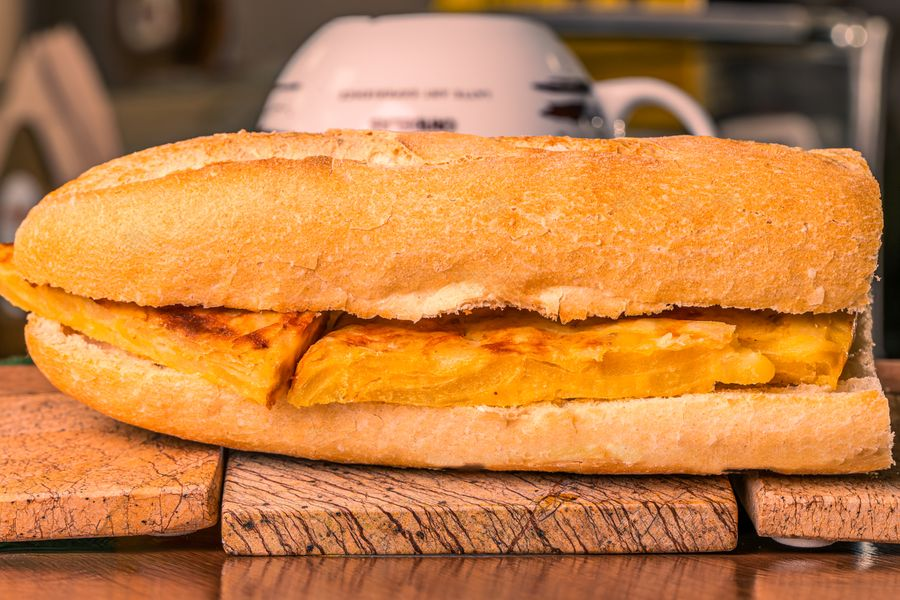
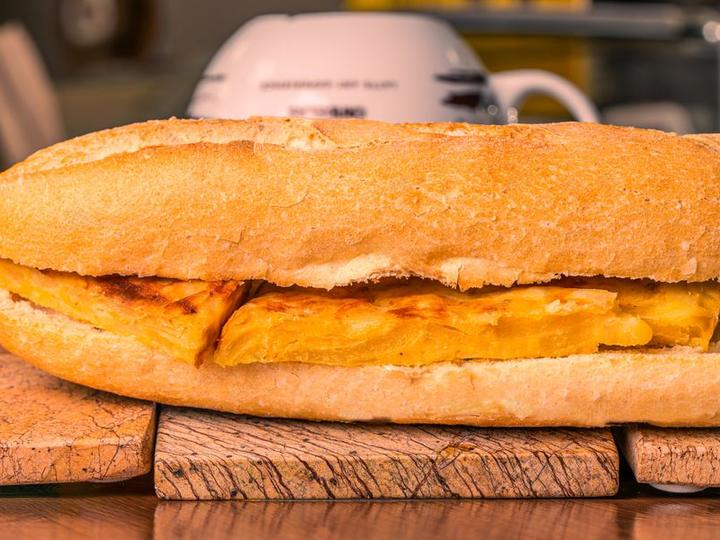
Historique : nom de l'expéditeur / du destinataire ; photos des plats allégées et mises en cache
- transactions.counterpart_name (nom · identifiant), rempli par transfer_funds et rétroactivement
- historique : « Reçu de Koffi Diabaté · DB-3796 » / « Envoyé à … »
- photos recadrées 4:3, 720×540, JPEG progressif : 2,3 Mo → 0,9 Mo ; script scripts/optimize-photos.py
- cache : 7 jours CDN/navigateur + service worker (affichage immédiat, mise à jour en arrière-plan)

Claude-Session: https://claude.ai/code/session_01M1rj67ENvoiHH1JiJK12xE

diff --git a/src/app/app/historique/page.tsx b/src/app/app/historique/page.tsx
@@ -6,7 +6,7 @@ import { supabase } from "@/lib/supabase/client";
 import { PageHeader } from "@/components/app/page-header";
 import { fcfa, signedFcfa, relativeDay, time, todayISO } from "@/lib/format";
 
-type Tx = { id: string; type: string; amount: number; balance_after: number; note: string | null; created_at: string };
+type Tx = { id: string; type: string; amount: number; balance_after: number; note: string | null; created_at: string; counterpart_name: string | null };
 
 const META: Record<string, { label: string; icon: typeof Gift; bg: string }> = {
   recharge: { label: "Recharge Mobile Money", icon: Smartphone, bg: "bg-lime-soft text-lime-deep" },
@@ -32,7 +32,7 @@ export default function HistoryPage() {
     (async () => {
       const sb = supabase();
       const { data: { user } } = await sb.auth.getUser();
-      const { data } = await sb.from("transactions").select("id, type, amount, balance_after, note, created_at")
+      const { data } = await sb.from("transactions").select("id, type, amount, balance_after, note, created_at, counterpart_name")
         .eq("user_id", user!.id).order("created_at", { ascending: false }).limit(150);
       setTxs(data ?? []);
     })();
@@ -78,8 +78,15 @@ export default function HistoryPage() {
                   <div key={t.id} className="flex items-center gap-3 px-4 py-3">
                     <span className={clsx("grid size-10 shrink-0 place-items-center rounded-xl", m.bg)}><I className="size-[18px]" /></span>
                     <div className="min-w-0 flex-1">
-                      <p className="truncate text-sm font-bold">{t.type === "purchase" && t.note ? t.note : m.label}</p>
-                      <p className="truncate text-xs text-muted">{t.type === "purchase" ? m.label : t.note ?? ""} · {time(t.created_at)}</p>
+                      <p className="truncate text-sm font-bold">
+                        {t.type === "purchase" && t.note ? t.note
+                          : t.counterpart_name && t.type === "transfer_in" ? `Reçu de ${t.counterpart_name}`
+                          : t.counterpart_name && t.type === "transfer_out" ? `Envoyé à ${t.counterpart_name}`
+                          : m.label}
+                      </p>
+                      <p className="truncate text-xs text-muted">
+                        {[t.type === "purchase" || t.counterpart_name ? m.label : null, t.type !== "purchase" ? t.note : null, time(t.created_at)].filter(Boolean).join(" · ")}
+                      </p>
                     </div>
                     <div className="text-right">
                       <p className={clsx("text-sm font-extrabold", t.amount > 0 ? "text-[#15803d]" : "text-ink")}>{signedFcfa(t.amount)}</p>

diff --git a/public/sw.js b/public/sw.js
@@ -3,7 +3,7 @@
 // - pages de l'appli : réseau d'abord, repli sur la dernière version en cache
 // - fichiers statiques Next (/_next/static) : cache d'abord (noms versionnés)
 // - API Supabase : jamais mise en cache ici (les jetons QR sont gardés par l'appli dans localStorage)
-const VERSION = "dabali-v1";
+const VERSION = "dabali-v1-img";
 const PAGES = ["/app", "/app/tickets", "/app/menu", "/app/profil"];
 
 self.addEventListener("install", (e) => {
@@ -28,6 +28,17 @@ self.addEventListener("fetch", (e) => {
         const copy = res.clone();
         caches.open(VERSION).then((c) => c.put(req, copy));
         return res;
+      })),
+    );
+    return;
+  }
+
+  // Photos des plats : affichées tout de suite depuis le téléphone, mises à jour en arrière-plan
+  if (url.pathname.startsWith("/dishes/")) {
+    e.respondWith(
+      caches.open(VERSION).then((c) => c.match(req).then((hit) => {
+        const update = fetch(req).then((res) => { if (res.ok) c.put(req, res.clone()); return res; }).catch(() => hit);
+        return hit || update;
       })),
     );
     return;

diff --git a/src/components/app/dish-image.tsx b/src/components/app/dish-image.tsx
@@ -20,7 +20,7 @@ export function DishImage({ name, src, className, rounded = "rounded-2xl" }: {
   const [failed, setFailed] = useState<string | null>(null);
   if (src && failed !== src) {
     // eslint-disable-next-line @next/next/no-img-element
-    return <img src={src} alt={name} loading="lazy" onError={() => setFailed(src)} className={clsx("bg-canvas object-cover", rounded, className)} />;
+    return <img src={src} alt={name} loading="lazy" decoding="async" onError={() => setFailed(src)} className={clsx("bg-canvas object-cover", rounded, className)} />;
   }
   const [a, b] = PALETTES[hash(name) % PALETTES.length];
   const initials = name.split(/\s+/).filter((w) => w.length > 2).slice(0, 2).map((w) => w[0]).join("").toUpperCase();

diff --git a/scripts/optimize-photos.py b/scripts/optimize-photos.py
@@ -1,0 +1,18 @@
+"""Prépare les photos des plats pour le web : recadrage 4:3 au centre, 720×540 max, JPEG progressif qualité 74.
+
+  python scripts/optimize-photos.py public/dishes/nouveau-plat.jpg   # un fichier
+  python scripts/optimize-photos.py                                  # tout public/dishes/
+
+Les cartes affichent les photos en paysage (object-cover), donc le recadrage ne coupe rien de visible.
+Cible : moins de 100 Ko par photo.
+"""
+import glob, sys
+from PIL import Image, ImageOps
+
+files = sys.argv[1:] or sorted(glob.glob("public/dishes/*.jpg"))
+for f in files:
+    im = ImageOps.exif_transpose(Image.open(f)).convert("RGB")
+    w = min(720, im.width, round(im.height * 4 / 3))
+    im = ImageOps.fit(im, (w, round(w * 3 / 4)), Image.LANCZOS)
+    im.save(f, "JPEG", quality=74, optimize=True, progressive=True)
+    print(f, im.size)

diff --git a/docs/RETEX.md b/docs/RETEX.md
@@ -20,6 +20,8 @@ perdre du temps et ce qu'il faut préparer **avant** le hackathon. À compléter
    et des services (petit-déjeuner, snack) se sont retrouvés sans image.
    → **Toutes les photos sont maintenant dans le dépôt** (`public/dishes/*.jpg`) et le seed les référence.
    Wikimedia bloque vite les téléchargements en série (erreur 429) : ne pas compter dessus le jour J.
+   **Toujours optimiser** une nouvelle photo : `python scripts/optimize-photos.py public/dishes/xxx.jpg`
+   (4:3, 720×540, < 100 Ko). Les 17 photos sont passées de 2,3 Mo à 0,9 Mo.
    Pour un nouveau plat : ajouter la photo dans `public/dishes/` **en même temps** que le plat.
 2. **Hébergement Netlify** : le déploiement automatique depuis l'outil a été refusé ; il a fallu passer par l'interface.
    → Préparer le site Netlify à l'avance (lié au dépôt GitHub, variables d'environnement remplies).
